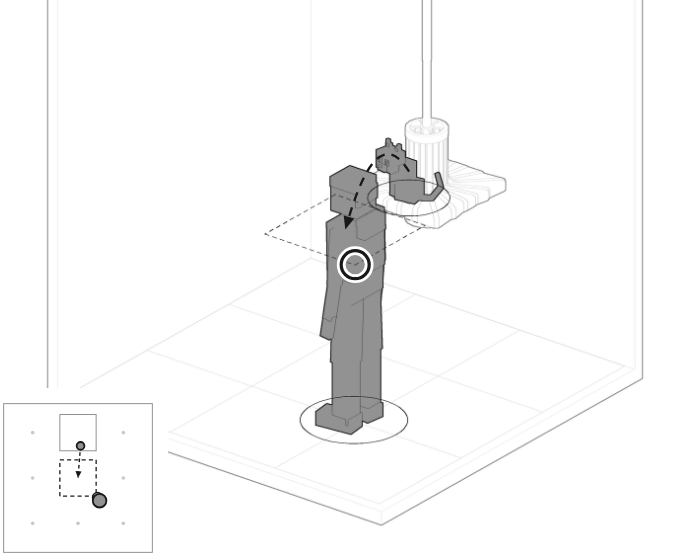
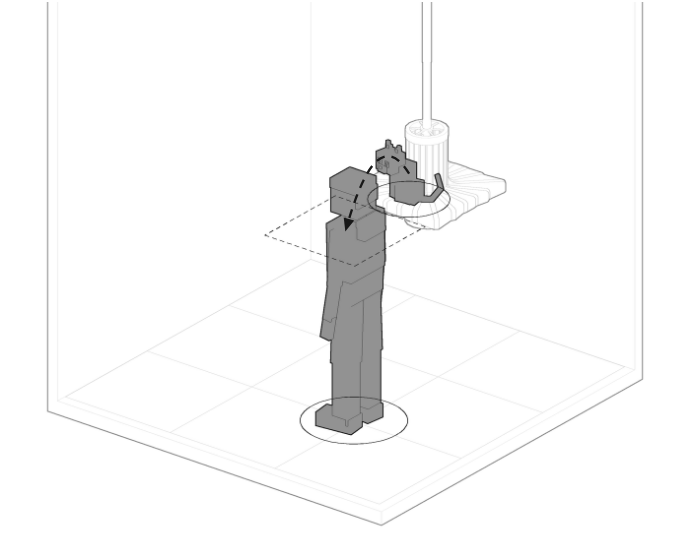
决定性瞬间图版：平面关系为主的行放大平面图
作者：步数、单元避让人、虚线框是不是压在人头上，这些在轴测里很难看准，
平面图要放大、多担信息；不是所有的图都要这样。

- 03 让路 · 04 台角 · 05 注视 · 07 头顶 · 08 引猫五行：平面图从线稿角上的
  小图改成排在线稿下面的大图，按真实尺寸画（台面 0.69 m、身体 ⌀0.44 m、
  1 m 比例尺）。01、02、06 讲竖向动作，仍用小图。
- 平面图上新增：没落的台与身体重叠的那一块涂黑；让路时收回的带画成台面
  的缺口；候选 / 将要落的台（点线框）；距离圈（0.37 m · 1.0–1.5 m）；
  引猫的步数写在格角上。
- line.py 写出收回的带的方位；带记号的单格另存放大的平面图 NN-k-plan.png。
- 04 第一格胸口的小圈撤掉，重叠改由平面图讲。

Claude-Session: https://claude.ai/code/session_01RPazAfSXQPsrXVZV5QtZZ3

diff --git a/scripts/moments/line.py b/scripts/moments/line.py
@@ -284,10 +284,18 @@ def render(prefix, out, opt):
         wide = vv[rr > 0.85 * rr.max()]
         unitd['%d,%d' % rc] = dict(lo=[float(x) for x in vv.min(0)], hi=[float(x) for x in vv.max(0)], reach=float(rr.max()),
                                    plat=float(wide[:, 2].max()))
+    # 让路时收回的带各朝哪个方位（平面图坐标：x 向右、y 向下），平面图上画成台面的缺口
+    retr = {}
+    if opt.get('bands'):
+        for i, k in enumerate(kinds):
+            if foc_part[i] and near(calls[i]['lite'], BAND[:2]):
+                ux, uy = axis(k[1], k[2])
+                c = calls[i]['v'].mean(0)
+                retr.setdefault('%d,%d' % k[1:], []).append(round(math.degrees(math.atan2(-(c[1] - uy), c[0] - ux)), 1))
     json.dump(
         dict(size=[W, H], crop=crop, hud=meta.get('hud'), n=n, pitch=pitch, room=float(max(allv[:, 0].max(), allv[:, 1].max())),
              down=down, marked=marked, ghosts=ghosts, furn=furn, bands=bool(opt.get('bands')), anchors=anchors,
-             gaze=bool(opt.get('gaze') and people and cats), cam=camd, people=[box(f) for f in people], cats=[box(f) for f in cats], units=unitd),
+             gaze=bool(opt.get('gaze') and people and cats), retracted=retr, cam=camd, people=[box(f) for f in people], cats=[box(f) for f in cats], units=unitd),
         open(str(Path(out).with_suffix('.json')), 'w'), ensure_ascii=False)
     print(out, f'{len(calls)} 件 · 人 {len(people)} 猫 {len(cats)} · 格距 {pitch:.1f} · 落着 {len(down)} 台')
 

diff --git a/CLAUDE.md b/CLAUDE.md
@@ -82,7 +82,7 @@
 | "单元形态"、"一台单元能长成什么形"、"每条带不一样"、"螺旋 / 双螺旋 / 多层塔 / 鳍"、"台能停多高"、"一条带几块台" | 项目二_单元形态研究.md（2026-11-16：只看一台单元自己，二十条带各编一段程序（几块台 · 什么剖面 · 停在芯上多高 · 收不收 · 拉不拉膜）；实测：6.6 cm 台 k14–62 外缘 0.23–0.615 m、15 / 23 cm 厚台、台沿芯平移 2 m 不变形、一条带两到四块台、共用一根芯要补垫且带长 ≤ 338；46 种形 + 两张组合格（轮廓 × 高低、剖面 × 取舍），每条带引擎现跑；读出布长是总账、轮廓越尖膜要补得越多、高低几乎不费膜；待作者定 5 条；代码 `src/lib/space/unit-forms.ts` + `unit-forms-atlas.ts`，线稿 `node scripts/unit-forms/atlas.mjs` → `项目二_单元形态研究/`） |
 | "形态和组合的联系"、"单元形态怎么用到 2-15"、"2-6 的定制怎么用"、"组合的研究"、"一台替谁做什么"、"路上的台斜不斜" | 项目二_形态与组合的连接.md（2026-11-16：一台落下时先看它在 2-15 里替谁做什么（桌子 · 引猫的路 · 座位前方那台 · 站着给的一步 · 猫待着 · 猫退开），再用 2-6 那几样定形（下层多高 · 朝哪边斜 · 上层盖哪半圈）；平面模型不改；现跑量出两个限制：64 台有 48 台压着家具、地面上的猫多半不走路；代码 `src/lib/space/cohabit-design.ts`，线稿 `node scripts/cohabit-design/draft.mjs` → `项目二_形态与组合的连接/`；同日已接进 2-16 小样（项目二_小样方案.md §14），2-15 按作者说的先不接） |
 | "输入到输出"、"什么规则引起什么输出"、"输入不清晰"、"这台为什么落 / 为什么成这个形"、"小样的规则从哪来"、"全部规则"、"两类规则"、"角色自身的规则 / 人和猫的固有属性"、"单元怎么感知 / 怎么理解 / 怎么干预"、"引猫那条链"、"触发规则"、"规则全不全"、"要补哪些规则"、"什么条件触发引猫" | 项目二_输入到输出的规则.md（2026-11-17 起，11-19 按作者「太零碎了」改成现在的样子；只整理不加规则。**正文**：§1 人（访客）· §2 猫（住户猫），各一张属性表（构成 · 身体 · 移动 / 可达范围 · 停留与落座 / 日常节律 · 视线 · 同伴 · 陌生人 / 远离人 · 接近人 · 对猫 / 其他猫 · 对单元），每格一行一条、写成条件和结果，每格写数从哪来，表下列调研里有而还没有的 · §3 单元的目的与约束（目的 + R1–R5）· **§4 感知 → 理解 → 干预**：五种人猫关系（路过 · 站立注视 · 落座、猫未到座位前方那台 · 相遇 · 猫的位置变更），每行写单元认定成什么性质、怎么动、对人猫的作用、实跑 30 分钟落几次，与案例页矩阵词（穿行 / 专注驻留 / 驻留 / 共温）的对应待作者确认 · §5 与人猫关系无关的规则（桌子 · 猫在一台上 · 三道检查）· §6 单元的动作 · §7 单元读不到的关系（猫的移动相对人是远离还是接近 · 坐着的人是否注视猫 · 引导中的猫向别人移动 / 被别人注视 · 多人同时引导一只猫 · 无记忆）。**附录**：A 引猫整条链 · B 四类事件 · C 对照几档 · D 痕迹那一版 · E 正文里写了仿真里没有的 · F 分镜与小样对规则 · G 链断五处 · H 查证（`scripts/cohabit/io-audit.mjs`、`guide-conditions.mjs`）· I 建议补写 · J 待作者定 · K 出处。只列人和猫，人狗、人与野生动物 11-18 删掉。与规则总表的分工：那份按数从哪来分三组。**页面版** = `node scripts/rules-table/build.mjs <out.html>` 直接从正文 §1–§7 生成（字是同一份，改规则只改文档），claude.ai artifact「Letting Agent 规则表」；11-18 那份 224 行的 rows.txt 已删，在 git 历史里） |
-| "决定性瞬间"、"静帧线稿"、"像漫画一样的图"、"交互逻辑的静态图"、"感知理解干预的图版" | scripts/moments/README.md（2026-11-23：把规则文档 §4、§5 每一条画成一行黑白线稿，感知 · 干预 · 作用三格；几何从 Lab 2-16 的台架原样取、线稿用交接图册的渲染器；场景键、取的秒、画法都在里面）+ `项目二_决定性瞬间/`（图版.png 与 23 张单格线稿）+ `src/lib/space/cohabit-vignette.ts` 的 `STILL_SCENES`（只用于出静帧的四个场景） |
+| "决定性瞬间"、"静帧线稿"、"像漫画一样的图"、"交互逻辑的静态图"、"感知理解干预的图版" | scripts/moments/README.md（2026-11-23：把规则文档 §4、§5 每一条画成一行黑白线稿，感知 · 干预 · 作用三格；几何从 Lab 2-16 的台架原样取、线稿用交接图册的渲染器；场景键、取的秒、画法都在里面）+ `项目二_决定性瞬间/`（图版.png · `panels/` 26 张单格线稿 · `带记号/` 带记号的单格与放大的平面图）+ `src/lib/space/cohabit-vignette.ts` 的 `STILL_SCENES`（只用于出静帧的四个场景） |
 | "规则怎么可视化"、"感知理解干预放到网页上"、"规则读数"、"单元为什么落画出来"、"输入画出来" | 项目二_规则可视化方案.md（2026-11-19 研究稿：站上已有什么、缺什么 · 约束（克制条款、颜色只表示项目、不造词、/lab 一次只展开一台、中英两份、规则只有一份）· 五种做法 A 画面标注 / B 感知 → 理解 → 干预读数（这两样放 Lab 2-14）/ C 2-15 角上一行 / D 2-16 图例加输入 / E 案例页静态五行图 · 原型与实测 · 建议先后 · 待作者定 5 条 · §10 = 搬到 Lab 2-14 的具体做法（放进说明栏切换、复用与新写的文件、待定 4 条），§10.8 = 已按推荐落地，站上做法见 MAPPING §90；读法 = `src/lib/space/cohabit-reasons.ts`（核对脚本 io-audit 同一份）；原型 = `scripts/rules-viz/`（`node scripts/rules-viz/build.mjs <out.html>`），claude.ai artifact「Letting Agent 规则读数」https://claude.ai/artifact/WRvLqJqu9ABTkPktyuf2oK ） |
 | "感知层"、"传感器"、"摄像头装在哪"、"两个角的摄像头交叉"、"胸牌 / 项圈"、"UWB"、"称重 / 座位压力"、"空间凭什么知道人和猫在哪"、"读心的输入"、"Lab 2-17"、"摄像头的画面"、"用点抽象的立体模型" | 项目二_感知层.md（2026-11-18：空间每一步读的东西换成传感器给得出的那一份。方案 A = 四个上角的摄像头 + 单元称重 + 座位压力；方案 B = 胸牌 / 项圈 UWB 定位与胸牌朝向 + 单元称重 + 座位压力；读不到的四样意图（猫想跳上哪台 · 台上的猫想去哪台 · 猫的潜伏期 · 人还没走的路线）换成看得见的量；摄像头布置的覆盖率与平面图 · 各读法下引导开 / 关的差值 · 带碰到人 / 门口等的代价 · 读数质量；传感器误差全是建模假设；代码 `src/lib/space/cohabit-sense.ts`（`CohabitOpts.sense`，省略 = 读真值逐位不变），脚本 `scripts/cohabit-sense/coverage.mjs` · `sense-effect.mjs`，产物 `项目二_感知层/`；§10 = 11-19 怎么在站上讲：原理线稿 `explain-draft.mjs` → `explain-a-b.png`；§10.1 = 同日落地的 Lab 2-17：左边四台摄像头各自的画面（点和线）、右边只用这些读数重建的立体模型（人 15 点骨架、猫 7 点，可拖动旋转），方案 B 只讲原理（量到四个固定点的距离 + 身体朝向），代码 `src/lib/space/sense-view.ts` · `sense-observer.ts` · `components/lab/senseDraw.ts` · `SenseBench.tsx`；§10.2 = 同日改成真解算：普通摄像头视线求点、深度相机一台定点、从关键点读人站走坐 / 前倾 / 看哪只猫与猫站坐趴 / 在哪个面上并与真实对照，方案 B 四段距离最小二乘解位置与高度、对不上时标出，准确度表 = `scripts/cohabit-sense/read-accuracy.mjs` → `read-accuracy.json`，解算 `sense-solve.ts`） |
 | "人猫同台规则总表"、"现在有哪些规则"、"人的规则 / 猫的规则 / 空间的规则" | 项目二_人猫同台_规则总表.md（2026-11-08：现行规则按人 · 猫 · 空间三部分逐条列出，每条写具体做法、数、数从哪来；附计数口径、对照用的空间、与案例页对照图口径的差别、还没进规则的） |
@@ -388,7 +388,7 @@
 
 - **Lab 2-14 加规则读数（2026-11-19 同日，作者「按推荐做」）**：说明栏顶上「规则读数 / 关于这项实验」两页、读数在前；一行一条（记号 · 判定 · 90 s 走势 · 此刻几条，成立时写谁对谁），点一行钉住展开感知与干预，悬停只留这一行的标注；平面图每台正在落的单元标出规则、细线连到起因，人猫标号；点单元出理由卡；「放一场 6 人 4 猫」= 与 2-15 同一场（抽出 `cohabit-solid.standardSceneSim`，2-15 共用），2-14 默认开场不改；第 7 节用 `--ld-amber`；痕迹（旧）、钉死、空房间写一句说明。数据 `src/lib/space/cohabit-readout.ts`、面板 `components/lab/RuleReadout.tsx`、标注 `components/lab/ruleOverlay.ts`、插槽 `LabCtl` 的 `LabReadoutSlot`、`LabPanelOpen` 加 `readout`（别的台架说明栏 DOM 不变）。房间边长不变（1440 宽 415 px）。守门 +9，全套 1560 绿，生产构建三档视口零报错。英文措辞、琥珀、「放一场」约 1 s 主线程待作者看。映射 = MAPPING §90。同日合并 master（另一会话的 Lab 2-17 感知层），读数留在 2-14：2-17 讲空间怎么读到人和猫，2-14 讲读到以后按哪条规则落单元；读数现在读真实状态，给 2-14 加「空间读什么」切换让它读传感器那一份待作者定。
 - **规则读数加「最近触发」+ 2-15 立体挂规则记号（2026-11-23，作者「规则怎么被调动的没在网页里可视化出来……哪个地方、哪个功能被怎样调动，做简单一点」）**：11-19 的 2-14 读数只列「此刻成立的状态」。读数顶上加最近三次调动，每条三句 感知 → 理解 → 干预（访客 5 坐下 → 需要桌子 → 第 19 台落到桌高），悬停一条画面指出那一台（`cohabit-readout.ts` 的 `ReadoutFeed` / `feedText`，2-14 / 2-15 共用 `RuleReadout`）；2-15 说明栏也打开读数，立体画面里每台正在落的单元头顶挂与读数行同一枚记号，最近一次触发的那台亮 3 s（`unitMarks`，投影沿用小样台上标签）。案例页主图、首页预览不变。守门 +4。待作者看三句措辞、立体要不要点单元。映射 = MAPPING §91，研究 = 项目二_规则可视化方案.md §11。
-- **决定性瞬间的线稿（2026-11-23，作者「缺一组很重要的图……像截图截到决定性瞬间，像漫画一样的静态图」→ 看第一版「全都做成黑白线稿，作品集美术风格要统一」→ 看线稿「太漫画了，要有学术气息、像竞赛图版、清新一些；猫画扁了；高亮的形式可以；箭头不要」）**：规则文档 §4、§5 每条规则一行，感知 · 干预 · 作用三格，共八行 23 格（① 路过让路 · ② 站立注视 · ③ 落座引猫 · ④ 相遇 · ⑤ 猫换台 · 桌子 · 检查：头顶 / 台角；R5 八场实跑一次没触发，不画）。做法：台架在某一秒画的三角形从 WebGL 这一层原样抄出来（`scripts/moments/gl-record.js` + `capture.mjs`，假时钟沿用 case-frames），用项目一交接图册的线稿渲染器找线（`scripts/handover/render.py` 拆出 `buffers()`，拆前拆后出图逐像素相同），`line.py` 合成黑白线稿，`sheet.mjs` 排图版；两个项目的线稿是同一种画法。画法定稿：线细、不画箭头；触发的人或猫 = 中灰底黑线 + 脚下一圈，被调动的单元 = 黑线浅灰底，让路时只标收回的带，没落的台 = 虚线框；人和猫只留很淡的分件线；地面画格线；画面只取到约 2.4 m 高；每格左上一张平面小图；字都在画面外。**站上代码只加了四个只用于出静帧的场景**（`STILL_SCENES`：`stillguide` 桌子与猫的第一步都在坐下那一刻落、猫坐着等 · `stillwatch` · `stillhead` · `stillcorner`；不进 Lab 2-16 的按钮与差分清单，用 `/lab#lab2-16-<键>` 打开；时刻照规则排——现成的 `guide` 小样是桌子先落、猫趴着，与规则不一致，没动它），守门 +3。产物在 `项目二_决定性瞬间/`。**还没做**：放进案例页（建议「方法」一节，用 FrameStrip）、PDF 用的高分辨率版、MAPPING 记录。只在工作分支 `claude/bold-franklin-iwgyht`，没有合并 master。说明 = scripts/moments/README.md。**11-24 按叙事顺序重排（作者「形式 OK；要找一个叙事逻辑，哪一行是哪一行的先决条件要讲清」）**：版头一张总表（人的状态 行走 / 站着 / 坐着 × 单元不妨碍人 / 单元落下的台，格里写行号），正文四章九行、每行标「前提」是哪几行：前提（01 单元的动作，新画、画到天花板 · 02 猫的落脚处 = 原 ⑤ + 猫在的台保持）→ 人在行走（03 让路）→ 人站着（04 台角 · 05 注视给一台）→ 人坐着（06 桌子 · 07 头顶 · 08 只落猫的下一步 · 09 相遇后保持）；`line.py` 加 `hide` / `hide_units`，`sheet.mjs` 改读分章的 plate.json，单格文件按行号改名 `NN-k.png`。**11-25 改两行（作者「07 的例子不对，猫一开始就在侧面、已经紧挨着了；09 没必要单独画一组图说明规则可以不变，只把要变的讲明白」）**：查代码确认 07 原例子（猫本来在人旁边，目标是头顶那台，最后挪到斜对角）说不通——仿真里是猫沿着台朝坐着的人靠近，到旁边那台已经挨着人，再往前一台在头顶上方、不落，猫停在旁边或下地走过去；`stillhead` 场景按这个重写，07 改成两格。09（相遇后保持）撤掉，作为 08 的第四格「相遇」，图版现为四章八行。**11-25 同日改成以图说话（作者「减少文字性的表述，多加入图上的引导和图形的说明，不需要读字也能让人看懂每组图的目的」）**：线稿上加一套记号（单元旁竖箭头 = 落下 / 收回 · 虚线框里的 ✕ = 不落 · 弧线与地面折线 = 猫 / 人的移动，虚线将要去、实线已走过 · 带数字的小圈 = 引猫的第几步 · 小钟与尺寸线只带数），同一套记号在每格的平面小图里再画一遍；版头的文字总表换成关系图（人的状态图标 × 单元做什么，节点是各行的平面小图，箭头是前提）加记号图例；每格说明压成一行，章说明与行头压成短语。记号由 `sheet.mjs` 用 `line.py` 写出的投影数据画成矢量（`rows/letting-agent.json` 每格的 `notes`），`line.py` 加 `--plate` 一次出完 26 格；带记号的单格另存 `项目二_决定性瞬间/带记号/`。11-23 的「箭头不要」由这一条取代（细线小箭头）。站上代码没动。
+- **决定性瞬间的线稿（2026-11-23，作者「缺一组很重要的图……像截图截到决定性瞬间，像漫画一样的静态图」→ 看第一版「全都做成黑白线稿，作品集美术风格要统一」→ 看线稿「太漫画了，要有学术气息、像竞赛图版、清新一些；猫画扁了；高亮的形式可以；箭头不要」）**：规则文档 §4、§5 每条规则一行，感知 · 干预 · 作用三格，共八行 23 格（① 路过让路 · ② 站立注视 · ③ 落座引猫 · ④ 相遇 · ⑤ 猫换台 · 桌子 · 检查：头顶 / 台角；R5 八场实跑一次没触发，不画）。做法：台架在某一秒画的三角形从 WebGL 这一层原样抄出来（`scripts/moments/gl-record.js` + `capture.mjs`，假时钟沿用 case-frames），用项目一交接图册的线稿渲染器找线（`scripts/handover/render.py` 拆出 `buffers()`，拆前拆后出图逐像素相同），`line.py` 合成黑白线稿，`sheet.mjs` 排图版；两个项目的线稿是同一种画法。画法定稿：线细、不画箭头；触发的人或猫 = 中灰底黑线 + 脚下一圈，被调动的单元 = 黑线浅灰底，让路时只标收回的带，没落的台 = 虚线框；人和猫只留很淡的分件线；地面画格线；画面只取到约 2.4 m 高；每格左上一张平面小图；字都在画面外。**站上代码只加了四个只用于出静帧的场景**（`STILL_SCENES`：`stillguide` 桌子与猫的第一步都在坐下那一刻落、猫坐着等 · `stillwatch` · `stillhead` · `stillcorner`；不进 Lab 2-16 的按钮与差分清单，用 `/lab#lab2-16-<键>` 打开；时刻照规则排——现成的 `guide` 小样是桌子先落、猫趴着，与规则不一致，没动它），守门 +3。产物在 `项目二_决定性瞬间/`。**还没做**：放进案例页（建议「方法」一节，用 FrameStrip）、PDF 用的高分辨率版、MAPPING 记录。只在工作分支 `claude/bold-franklin-iwgyht`，没有合并 master。说明 = scripts/moments/README.md。**11-24 按叙事顺序重排（作者「形式 OK；要找一个叙事逻辑，哪一行是哪一行的先决条件要讲清」）**：版头一张总表（人的状态 行走 / 站着 / 坐着 × 单元不妨碍人 / 单元落下的台，格里写行号），正文四章九行、每行标「前提」是哪几行：前提（01 单元的动作，新画、画到天花板 · 02 猫的落脚处 = 原 ⑤ + 猫在的台保持）→ 人在行走（03 让路）→ 人站着（04 台角 · 05 注视给一台）→ 人坐着（06 桌子 · 07 头顶 · 08 只落猫的下一步 · 09 相遇后保持）；`line.py` 加 `hide` / `hide_units`，`sheet.mjs` 改读分章的 plate.json，单格文件按行号改名 `NN-k.png`。**11-25 改两行（作者「07 的例子不对，猫一开始就在侧面、已经紧挨着了；09 没必要单独画一组图说明规则可以不变，只把要变的讲明白」）**：查代码确认 07 原例子（猫本来在人旁边，目标是头顶那台，最后挪到斜对角）说不通——仿真里是猫沿着台朝坐着的人靠近，到旁边那台已经挨着人，再往前一台在头顶上方、不落，猫停在旁边或下地走过去；`stillhead` 场景按这个重写，07 改成两格。09（相遇后保持）撤掉，作为 08 的第四格「相遇」，图版现为四章八行。**11-25 同日改成以图说话（作者「减少文字性的表述，多加入图上的引导和图形的说明，不需要读字也能让人看懂每组图的目的」）**：线稿上加一套记号（单元旁竖箭头 = 落下 / 收回 · 虚线框里的 ✕ = 不落 · 弧线与地面折线 = 猫 / 人的移动，虚线将要去、实线已走过 · 带数字的小圈 = 引猫的第几步 · 小钟与尺寸线只带数），同一套记号在每格的平面小图里再画一遍；版头的文字总表换成关系图（人的状态图标 × 单元做什么，节点是各行的平面小图，箭头是前提）加记号图例；每格说明压成一行，章说明与行头压成短语。记号由 `sheet.mjs` 用 `line.py` 写出的投影数据画成矢量（`rows/letting-agent.json` 每格的 `notes`），`line.py` 加 `--plate` 一次出完 26 格；带记号的单格另存 `项目二_决定性瞬间/带记号/`。11-23 的「箭头不要」由这一条取代（细线小箭头）。站上代码没动。**11-26 平面图放大（作者「步数、单元避让人、虚线框是不是压在人头上，这些在轴测图里很难看出空间关系……平面图要放大、加更多信息权重，不是所有的图都要这样」）**：03 让路 · 04 台角 · 05 注视 · 07 头顶 · 08 引猫五行的平面图从线稿角上的小图改成排在线稿下面的大图（`plan: 'big'`），按真实尺寸画：台面 0.69 m、人的身体 ⌀0.44 m、1 m 比例尺；没落的台与身体重叠的那一块涂黑；让路时收回的带画成台面的缺口；另加只画在平面上的候选台（点线框）、距离圈（0.37 m · 1.0–1.5 m）、引猫步数。01、02、06 讲竖向动作，仍用小图。04 第一格胸口那个小圈撤掉（重叠改由平面图讲）。说明 = scripts/moments/README.md「放大的平面图」。
 - **项目二感知层：空间改读传感器（2026-11-18，作者 11-17「始终没有去做 HCI 里很重要的感知层面……在房间上边的两个角架两台摄像头交叉」→ 看过分析后 11-18「摄像头加压力 / 重量传感的方案 OK，项圈和胸牌也可以，胸牌也能表现人面朝哪……两个方案都做」）**：此前所有研究里空间直接读人和猫的真实状态。新模块 `src/lib/space/cohabit-sense.ts`（遮挡几何 + 两个方案的传感器误差 + 读不到的意图换成看得见的量），`cohabit.ts` 加可选 `sense`（空间那一步换成读传感器那一份，人和猫的行为、记账仍按真值；省略 = 逐位不变，守门核对）。方案 A = 四个上角的摄像头（3.4 m，在收起的单元下沿 3.53 m 以下）+ 单元吊杆称重 + 座位压力片；方案 B = 胸牌 / 项圈 UWB（四角基站，人体算非视距）+ 胸牌朝向（读的是身体不是头）+ 称重 + 座位压力。读不到的四样（§14.29 第 7 条）：猫想跳上哪台 → 停在哪台下面；台上的猫想去哪台 → 读不到、不先落；猫的潜伏期 → 看见它刚从人身边走开；人还没走的路线 → 按速度外推，另补「刚停在一条没开的带前的人当他要过去」（不补会把人关在带前几分钟）。**覆盖率**（3 场 × 900 s）：两台交叉时站着的人被两台同时看见 76%（同一面墙）/ 88%（对角），地上的猫 32–37%；四个上角 96% / 81%；看脸要八台才到 95%。**引导开 − 关**（6 人 4 猫 · 1800 s · 32 种子）：共温读真值 +717（+12%）、只读看得见的 +537、摄像头 +649、胸牌 +697、人只转头 +713，都显著、互相不显著；猫到座位前方那台少约四分之一；带碰到人的时间是读真值时的 1.3–3 倍（安全要单元自己测距限速）。建模时修掉三处自己的错（单元成形后上夹环 1.43 m 不是 2.13 m · 平面模型里地上的猫近一半时间站在家具位置上 = 在家具顶面上 · 停在带前的人），都重跑过。误差全是建模假设。待作者定：用哪个方案 / 几台摄像头 · 四个看得见的量要不要写进规则总表 · 案例页要不要写。站上页面零改。守门 +7。细节 = 项目二_感知层.md、人猫同台lab §14.32。
 - **Lab 2-17 · 空间怎么知道人和猫在哪（2026-11-19，作者「把它做立体的：一些平面视图，旁边生成一个低保真、用点抽象的立体模型……通过这些摄像头去观察其中的人和猫，在立体模型里看到它们真正的空间位置」）**：第八段末加一台 2D 画布台架（逻辑 700 × 520）。左边一列 = 方案 A 四台摄像头各自拍到的画面（针孔投影，只画点和线：地面、家具顶面、单元的芯与台面、人和猫的关键点；这台看见的点实心、在框里却被挡的粉色空心、虚线检测框）；右边 = 只用这些读数重建的立体模型（人 15 点骨架、猫 7 点；两台以上看见 = 实心定得住，一台 = 空心点加沿视线的一小段，没看见 = 淡影 1.5 s，全看不见标问号；指针停着的那个画视线，被挡的画到挡住处打 ×；可拖动旋转、滚轮缩放，底栏轴测 / 俯视 / 正视）。方案 B 只讲原理不写设备：左边换成俯视 + 选中身体到四个固定点的距离条（隔着身体的读长、画粉色虚线）+ 人的朝向盘，右边每个身体一个点加误差圈和读到的朝向。场景 = 2-15 那间房、6 人 4 猫，访客节奏取研究那一套（PACE_STUDY）画面里才有人走动；仿真仍读真值，这台只画传感器读到了什么。摄像头布置四档（同墙两台 / 对角两台 / 四个上角 / 四角 + 墙中点）+ 方案 B = 编制 5，差分清单 774 → 779。遮挡、误差、摄像头位置取 cohabit-sense（与研究同一份），关键点取站上人形骨架；新模块 `src/lib/space/sense-view.ts`（守门 8 项）· `sense-observer.ts` · `components/lab/senseDraw.ts` · `SenseBench.tsx`；布局沿用 2-15 的侧栏（workspace.css / lab-dark.css 选择器加 2-17）。实测（生产构建 + 无头 Chromium）：四个上角站着的人 97% 的点定得住、对角两台 77%，中英两侧无报错、英文侧无中文。构建时 Next.js 输出提示 16.4.2 有已知安全漏洞（未处理）。细节 = 项目二_感知层.md §10.1。**同日真解算（作者「是不是只用监测到这四个点的距离就可以算出人真正的空间位置」→「把这两个方案都做了：摄像头那个，拿深度相机的话甚至可以直接读到这个人在做什么；距离那个也就这么做」）**：此前立体模型与方案 B 都是「真实位置 + 一个误差」，改成从读数真算回来。新模块 `src/lib/space/sense-solve.ts`（守门 11 项）：普通摄像头每台给一条带 0.005 rad 检测误差的视线、两条以上最小二乘求点、一条只知道在线上；深度相机（建模取 75° × 65°、0.5–5.5 m、1.5 cm + 0.4%）两台以上仍按视线、只有一台时用量到的远近；从解出的关键点读人站 / 走 / 坐、前倾、在看哪只猫（看得见脸按脸、否则按两肩），猫站 / 坐 / 趴与在哪个面上（面的高度查房间，首版用脚点、深度下坐着的猫多半读成趴），每刻对照仿真真实、读错标粉；方案 B 四段距离（0.08 m 误差、隔着身体读长 0.35 m）高斯—牛顿解出位置与高度、残差过 χ²₁ 95% 标「四段对不上」，坐靠座位压力、猫在哪台靠称重。台架「方案」三档（A 普通摄像头 / A 深度相机 / B 量距离），差分清单 779 → 783。**实测**（`scripts/cohabit-sense/read-accuracy.mjs`，4 × 600 s）：站着的人的点定得住 普通两台 65–66% / 四角 91% / 八台 97%，深度两台 77–79%、四台八台与普通差不多；定住的点差 2–4 cm；站走坐各布置都约 96% 读对，在看哪只猫两台约 66%、四台 82–83%、八台 86–87%，有没有深度都一样（模型假设看得见的关节都检得出，深度在防认错上的帮助没算进去）；方案 B 全直接量到 0.08 m、一段隔着身体 0.21 m、两段 0.29 m，至少一段隔着身体占 77%，一段读长只有 41% 看得出，四个点只多一个距离、看得出有错看不出哪段；只看高度分坐站对 74%。研究里方案 B 的误差档与真解算对得上，§5 结论不改。守门 +14。细节 = 项目二_感知层.md §10.2。**拖动方向（同日，作者「这拖动是反的」）**：Z 朝上转盘按相机默认的环绕方向，往右拖时近处那一侧往左走，与用户拍板过的 Y 朝上那几台（往右拖、模型跟着手往右转）相反；竖向本来一致不动。11-20 作者「1-4 也一起翻过来」：改在共用的 camera3d（Z 朝上转盘横拖取负号），Z 朝上只有 Lab 1-4 与 2-17 两台、一起变，Y 朝上那几台不受影响；2-17 先前单独加的反号撤掉；守门 +1（两种世界里往右拖近处都往右走）。
 

diff --git a/scripts/moments/README.md b/scripts/moments/README.md
@@ -36,6 +36,17 @@
 
 配套的版式：版头 = 一句目的 + 记号图例 + 一张关系图（列 = 前提 / 行走 / 站着 / 坐着，各带一个小人图标与「落几台」的方块；行 = 不妨碍人 / 落下的台；节点 = 那一行「干预」格的平面小图；箭头 = 前提）。每格下面只留一行短说明；格与格之间一个箭头表示先后；平面小图放在画面左下角（正轴测的左下角总是空的；08 行内容靠左，放右下角）。11-23 定的「不画落下箭头」由这一条取代：箭头用细线、小箭头，和尺寸线一个粗细。
 
+## 放大的平面图（2026-11-26 作者「步数、单元避让人、虚线框是不是压在人头上，这些在轴测里很难看准，平面图要放大、多担信息；不是所有的图都要这样」）
+
+行里写 `plan: 'big'` 的（03 让路 · 04 台角 · 05 注视 · 07 头顶 · 08 引猫），线稿角上不放小图，平面图放大排在线稿下面（三格一行 190 px、四格一行 146 px），说明在它右边。01、02、06 讲的是竖向的动作，仍用角上的小图。放大的平面图按真实尺寸画，比小图多这些：
+
+- 台面 0.69 m 见方，落着的填浅灰；人的身体 ⌀0.44 m、猫 ⌀0.2 m；右下角 1 m 比例尺。
+- 没落的台（虚线框）与人的身体重叠的那一块涂黑（04 是台角蹭到人，07 是整个人在台下面）。
+- 让路时收回的带画成台面朝那几个方位的缺口（方位由 `line.py` 从收回的带的位置算出，写在 `.json` 的 `retracted` 里）。
+- 只画在平面上的记号：`{k:'cand', cells}` 候选 / 将要落的台（点线框）· `{k:'ring', at, r:[米…], label}` 距离圈（03 身边 0.37 m、08 相遇 1.0–1.5 m）· `{k:'step', at:[行,列], n, planOnly?}` 引猫的第几步写在那一格的角上。
+
+带记号的单格另存时，放大的平面图单独一张 `NN-k-plan.png`。
+
 ## 叙事顺序（2026-11-24 作者「要有叙事逻辑，哪一行是哪一行的前提要讲清」）
 
 版头一张关系图：人的状态（行走 / 站着 / 坐着）× 单元做什么（不妨碍人 / 落下的台）。正文四章八行，每行标出它的前提是哪几行：
